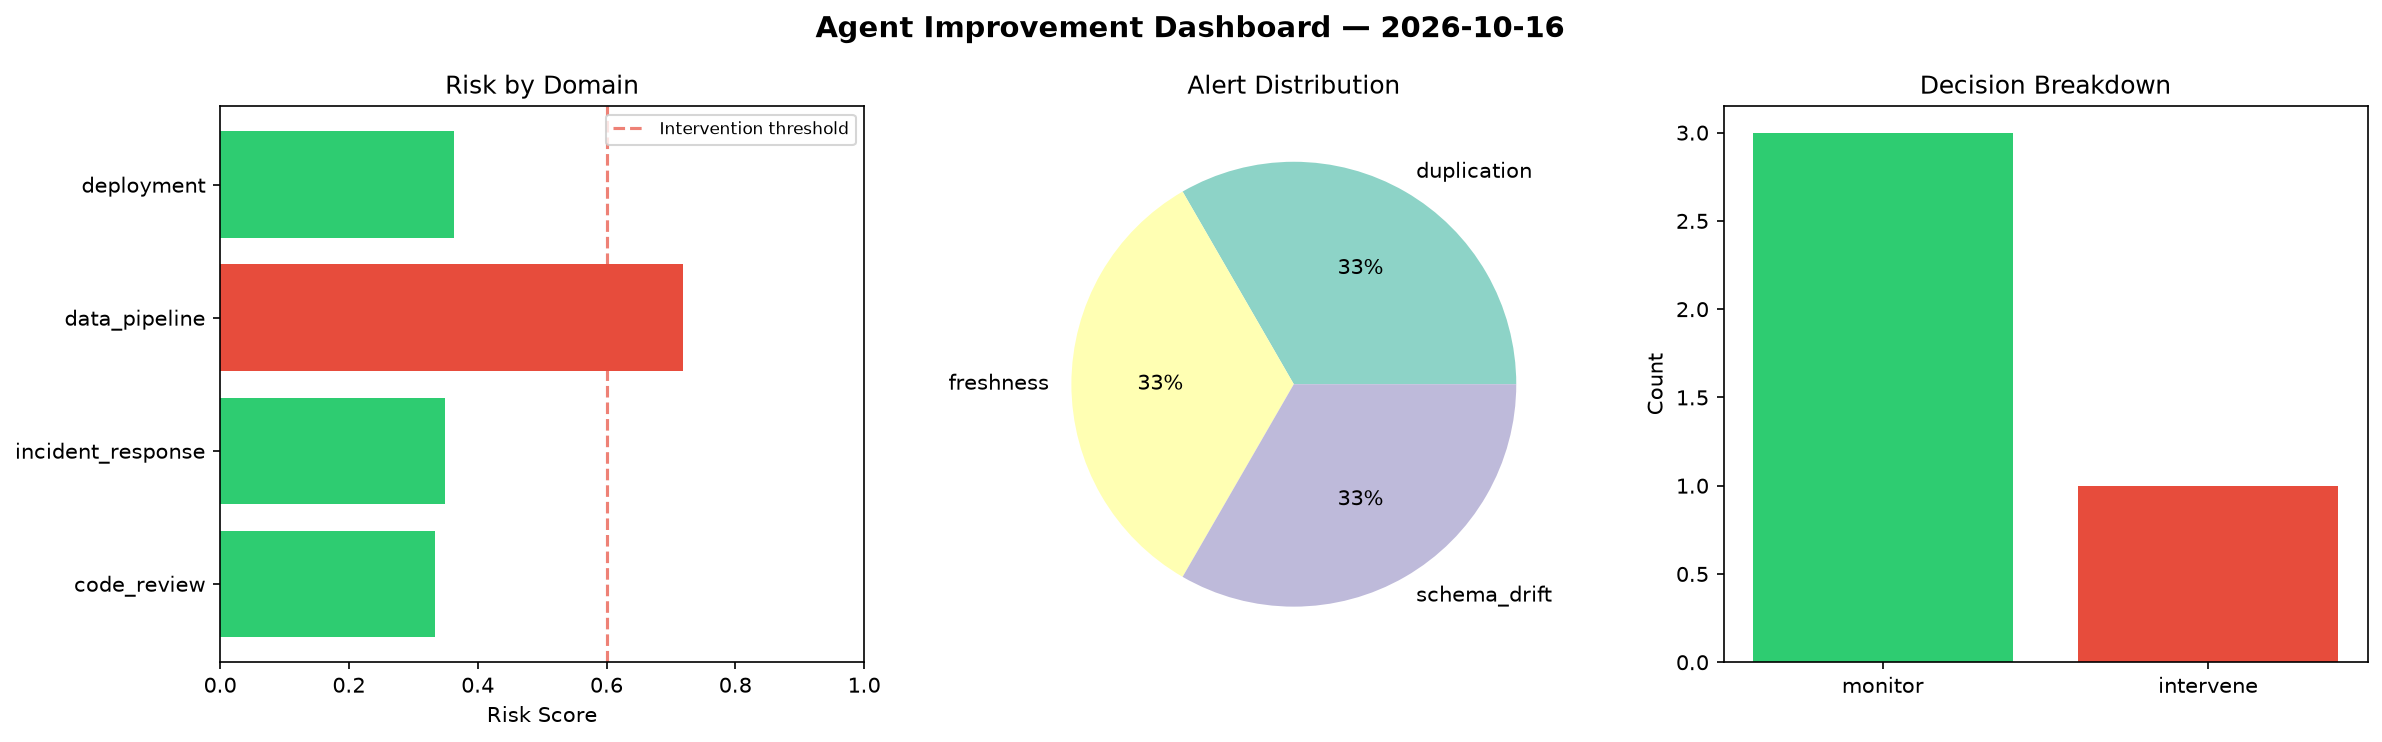
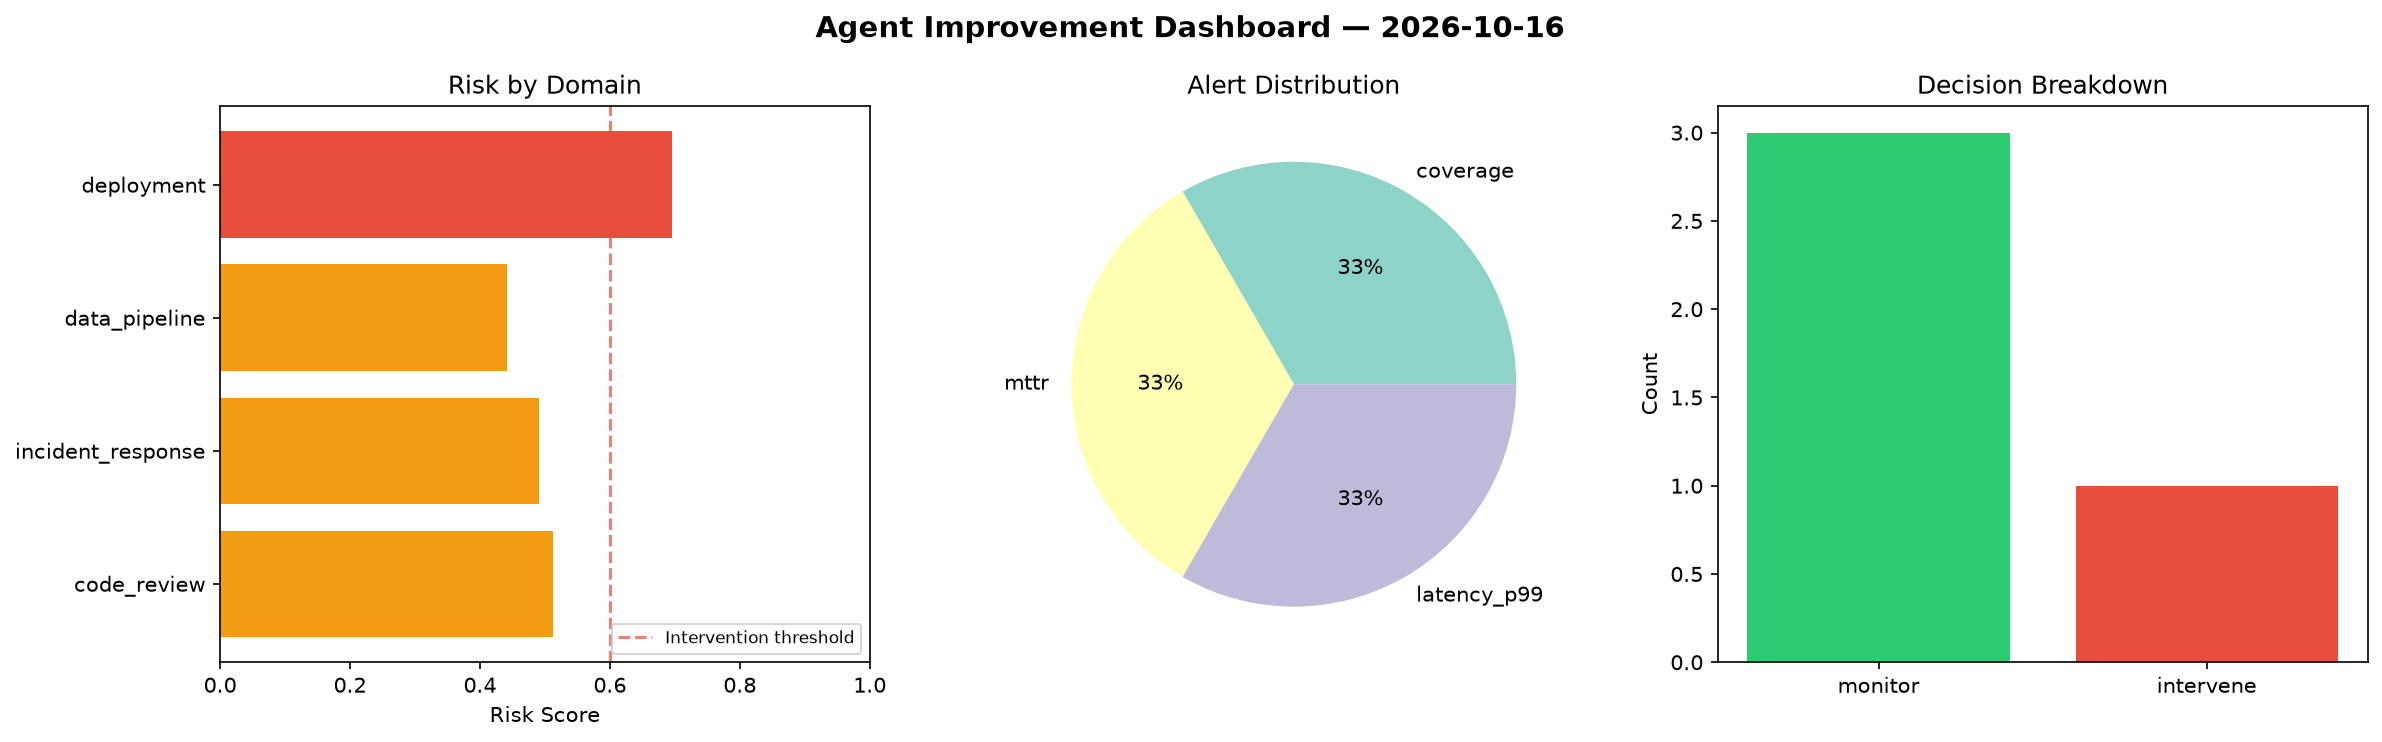
agent-improvement: daily cycle 2026-10-16T13:15

diff --git a/logs/2026-10-16.md b/logs/2026-10-16.md
@@ -1,6 +1,6 @@
 # Agent Improvement Report — 2026-10-16
 
-**Cycle ID:** `948803a4` | **Avg Risk:** 0.4412 | **Interventions:** 1/4
+**Cycle ID:** `ca078fba` | **Avg Risk:** 0.5352 | **Interventions:** 1/4
 
 ![Dashboard](2026-10-16_dashboard.png)
 
@@ -10,18 +10,18 @@
 
 | Domain | Risk Score | Decision | Alerts |
 |--------|-----------|----------|--------|
-| code_review | 0.3331 | monitor | duplication |
-| incident_response | 0.3496 | monitor | none |
-| data_pipeline | 0.718 | intervene | freshness, schema_drift |
-| deployment | 0.3639 | monitor | none |
+| code_review | 0.5123 | monitor | coverage |
+| incident_response | 0.4914 | monitor | mttr |
+| data_pipeline | 0.442 | monitor | none |
+| deployment | 0.695 | intervene | latency_p99 |
 
 ## Delta vs Yesterday
 
 | Domain | Today | Yesterday | Change |
 |--------|-------|-----------|--------|
-| code_review | 0.3331 | 0.8232 | 📉 -59.5% |
-| incident_response | 0.3496 | 0.2885 | 📈 21.2% |
-| data_pipeline | 0.718 | 0.4861 | 📈 47.7% |
-| deployment | 0.3639 | 0.7213 | 📉 -49.5% |
+| code_review | 0.5123 | 0.8232 | 📉 -37.8% |
+| incident_response | 0.4914 | 0.2885 | 📈 70.3% |
+| data_pipeline | 0.442 | 0.4861 | 📉 -9.1% |
+| deployment | 0.695 | 0.7213 | 📉 -3.6% |
 
 **Refinement:** `{'adjustment': 'tighten_thresholds', 'trend': 'degrading', 'window': 4}`
